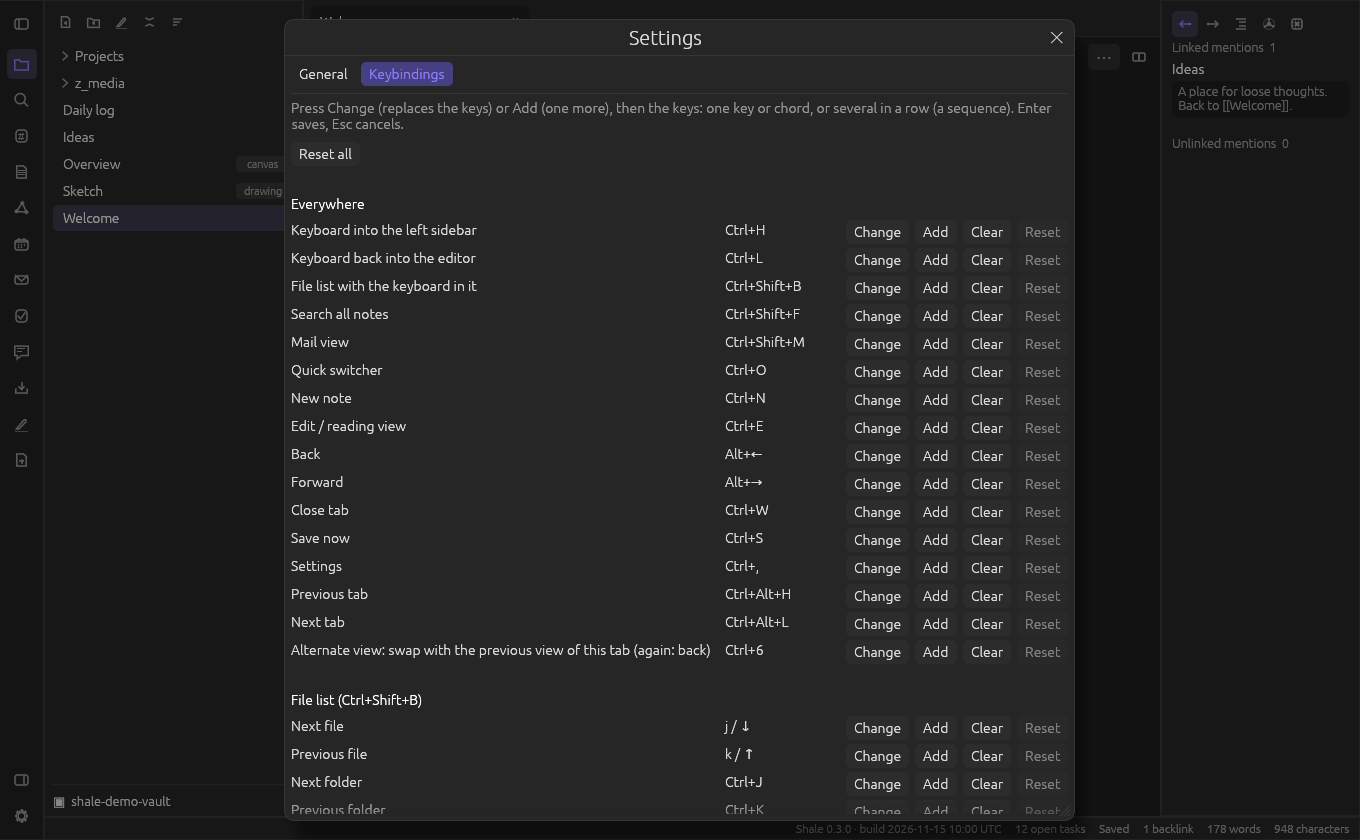
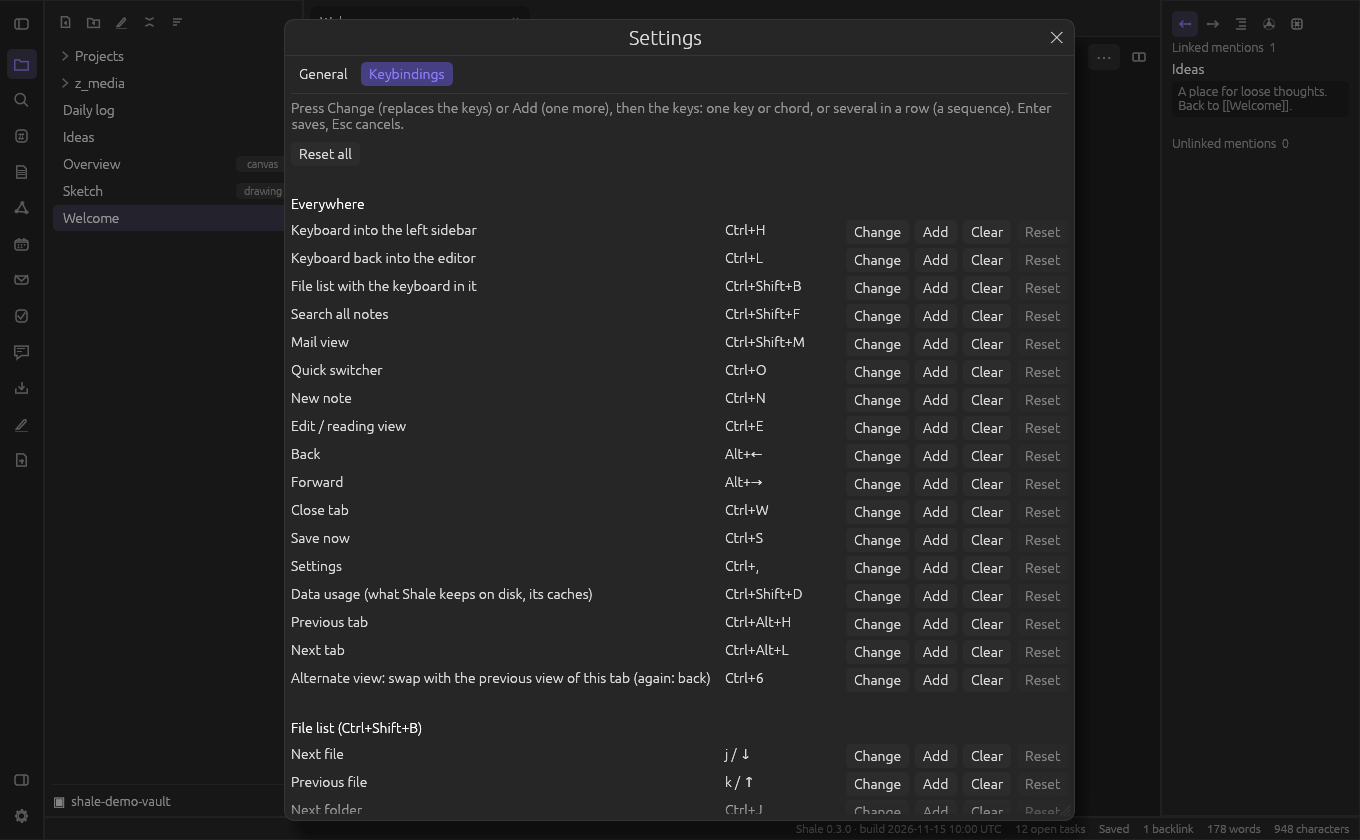
Screenshots: fixed temp folder names in screenshot mode, so data usage gives the same picture twice
The data usage dialog shows the cache folders; they carried the process id. All 27 pictures
are regenerated and byte-stable over two runs (keybindings now lists Data usage).

Closes #93

diff --git a/src/app.rs b/src/app.rs
@@ -431,11 +431,24 @@ impl ShaleApp {
         let default_welcome = dirs::document_dir().or_else(dirs::home_dir).unwrap_or_default().join("Notes");
         // where the data lives: the user's folders, or temporary ones for tests and screenshots
         let n = NEXT_MAIL_ROOT.fetch_add(1, Ordering::SeqCst);
-        let pid = std::process::id();
-        let mail_root = if persist { crate::mail_store::default_root() } else { std::env::temp_dir().join(format!("shale-mail-{pid}-{n}")) };
-        let social_dir = if persist { dirs::cache_dir().unwrap_or_else(std::env::temp_dir).join("shale").join("social") } else { std::env::temp_dir().join(format!("shale-social-{pid}")) };
-        let calendar_dir = if persist { crate::cal_store::default_local_dir() } else { std::env::temp_dir().join(format!("shale-calendars-{pid}")) };
-        let recovery_root = if persist { crate::recovery::default_root() } else { std::env::temp_dir().join(format!("shale-recovery-{pid}")) };
+        // tests: one folder per process (and app); screenshots: a fixed name, emptied first, because
+        // the data usage dialog shows these paths and two runs must give the same picture
+        let tag = if screenshot.is_some() { "screenshot".to_string() } else { std::process::id().to_string() };
+        let mail_root = if persist {
+            crate::mail_store::default_root()
+        } else if screenshot.is_some() {
+            std::env::temp_dir().join("shale-mail-screenshot")
+        } else {
+            std::env::temp_dir().join(format!("shale-mail-{tag}-{n}"))
+        };
+        let social_dir = if persist { dirs::cache_dir().unwrap_or_else(std::env::temp_dir).join("shale").join("social") } else { std::env::temp_dir().join(format!("shale-social-{tag}")) };
+        let calendar_dir = if persist { crate::cal_store::default_local_dir() } else { std::env::temp_dir().join(format!("shale-calendars-{tag}")) };
+        let recovery_root = if persist { crate::recovery::default_root() } else { std::env::temp_dir().join(format!("shale-recovery-{tag}")) };
+        if screenshot.is_some() {
+            for d in [&mail_root, &social_dir, &calendar_dir, &recovery_root] {
+                let _ = std::fs::remove_dir_all(d);
+            }
+        }
         let places = if persist {
             crate::data_usage::Places {
                 pictures: social_dir.clone(),
@@ -456,7 +469,7 @@ impl ShaleApp {
                 calendars: calendar_dir.clone(),
                 calendar_trash: calendar_dir.join(".calendar-trash"),
                 recovery: recovery_root.clone(),
-                ..crate::data_usage::Places::in_folder(&std::env::temp_dir().join(format!("shale-usage-{pid}-{n}")))
+                ..crate::data_usage::Places::in_folder(&std::env::temp_dir().join(format!("shale-usage-{tag}-{n}")))
             }
         };
         let mut app = ShaleApp {
